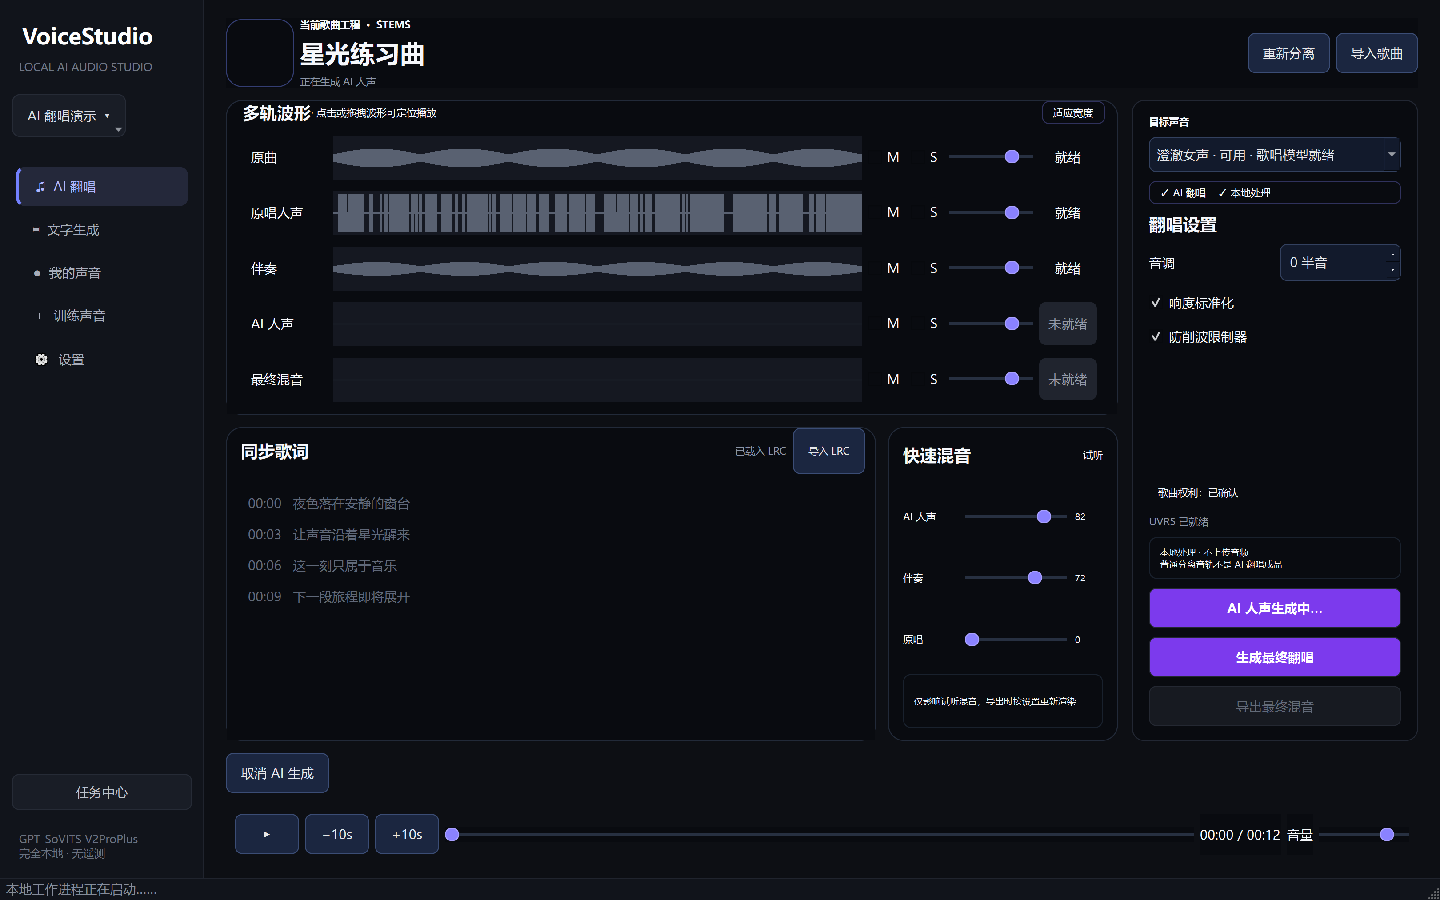
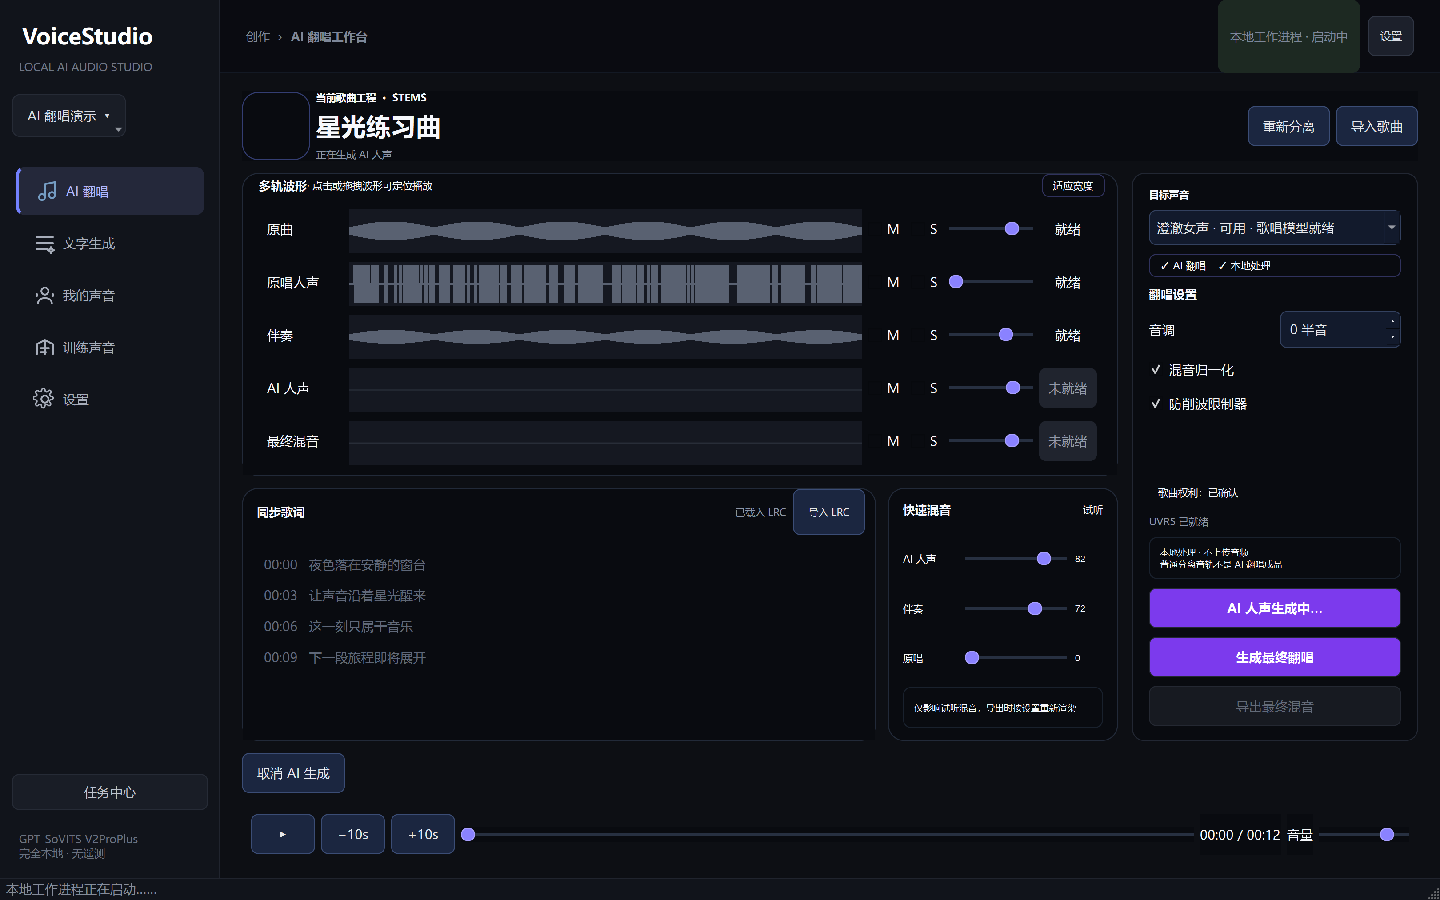
feat: add studio workspace topbar

diff --git a/src/local_voice_studio/ui/main_window.py b/src/local_voice_studio/ui/main_window.py
@@ -8,7 +8,7 @@ from pathlib import Path
 from PySide6.QtCore import QProcess, QProcessEnvironment, Qt, QUrl
 from PySide6.QtGui import QCloseEvent, QDesktopServices, QIcon, QTextCursor
 from PySide6.QtWidgets import (
-    QCheckBox, QDialog, QFileDialog, QHBoxLayout, QInputDialog, QLabel, QListWidget, QListWidgetItem, QMainWindow, QMenu, QMessageBox,
+    QCheckBox, QDialog, QFileDialog, QFrame, QHBoxLayout, QInputDialog, QLabel, QListWidget, QListWidgetItem, QMainWindow, QMenu, QMessageBox,
     QGroupBox, QPlainTextEdit, QProgressBar, QPushButton, QStackedWidget, QToolButton, QVBoxLayout, QWidget,
 )
 
@@ -101,7 +101,13 @@ class MainWindow(QMainWindow):
         central = QWidget(); root = QHBoxLayout(central); root.setContentsMargins(0, 0, 0, 0); root.setSpacing(0); self.setCentralWidget(central)
         sidebar = QWidget(); sidebar.setObjectName("sidebar"); sidebar.setFixedWidth(220); side_layout = QVBoxLayout(sidebar); side_layout.setContentsMargins(0, 0, 0, 0); brand = QLabel("VoiceStudio"); brand.setObjectName("brand"); side_layout.addWidget(brand); brand_sub = QLabel("LOCAL AI AUDIO STUDIO"); brand_sub.setObjectName("brandSub"); side_layout.addWidget(brand_sub); self.project_button = QToolButton(); self.project_button.setObjectName("projectPicker"); self.project_button.setToolButtonStyle(Qt.ToolButtonTextBesideIcon); self.project_button.setPopupMode(QToolButton.InstantPopup); self.project_menu = QMenu(self.project_button); self.project_menu.aboutToShow.connect(self._refresh_project_menu); self.project_button.setMenu(self.project_menu); side_layout.addWidget(self.project_button)
         self.navigation = QListWidget(); self.navigation.setObjectName("navigation"); self.navigation.setFrameShape(QListWidget.NoFrame); side_layout.addWidget(self.navigation); task_center = QPushButton("任务中心"); task_center.setObjectName("sidebarButton"); task_center.clicked.connect(self._open_task_center); side_layout.addWidget(task_center); version = QLabel("GPT-SoVITS V2ProPlus\n完全本地 · 无遥测"); version.setObjectName("sidebarFoot"); side_layout.addWidget(version); root.addWidget(sidebar)
-        self.stack = QStackedWidget(); root.addWidget(self.stack, 1)
+        workspace = QWidget(); workspace.setObjectName("workspace"); workspace_layout = QVBoxLayout(workspace); workspace_layout.setContentsMargins(0, 0, 0, 0); workspace_layout.setSpacing(0)
+        topbar = QFrame(); topbar.setObjectName("topbar"); topbar_layout = QHBoxLayout(topbar); topbar_layout.setContentsMargins(26, 0, 26, 0); topbar_layout.setSpacing(8)
+        topbar_layout.addWidget(QLabel("创作")); topbar_layout.addWidget(QLabel("›")); current_title = QLabel("AI 翻唱工作台"); current_title.setObjectName("topbarTitle"); topbar_layout.addWidget(current_title); topbar_layout.addStretch()
+        self.topbar_status = QLabel("本地工作进程 · 启动中"); self.topbar_status.setObjectName("topbarStatus"); topbar_layout.addWidget(self.topbar_status)
+        settings_button = QPushButton("设置"); settings_button.setObjectName("topbarButton"); settings_button.clicked.connect(lambda: self.navigation.setCurrentRow(4)); topbar_layout.addWidget(settings_button)
+        workspace_layout.addWidget(topbar)
+        self.stack = QStackedWidget(); workspace_layout.addWidget(self.stack, 1); root.addWidget(workspace, 1)
         for icon, name in (("cover.svg", "AI 翻唱"), ("generate.svg", "文字生成"), ("voices.svg", "我的声音"), ("training.svg", "训练声音"), ("settings.svg", "设置")):
             item = QListWidgetItem(self._navigation_icon(icon), name)
             self.navigation.addItem(item)
@@ -175,10 +181,10 @@ class MainWindow(QMainWindow):
         dialog = SetupDialog(self._script_path(), self.paths, self); dialog.exec(); self.client.start(); self.settings_page.check_health()
 
     def _state(self, state: str) -> None:
-        messages = {"running": "本地工作进程已启动", "stopped": "本地工作进程已停止"}; self.statusBar().showMessage(messages.get(state, state), 5000)
+        messages = {"running": "本地工作进程 · 就绪", "stopped": "本地工作进程 · 已停止"}; message = messages.get(state, state); self.statusBar().showMessage(message, 5000); self.topbar_status.setText(message)
 
     def _worker_event(self, request_id: str, event: str, payload: dict) -> None:
-        if request_id == "worker" and event == "ready": self.statusBar().showMessage("本地工作进程就绪", 5000)
+        if request_id == "worker" and event == "ready": self.statusBar().showMessage("本地工作进程就绪", 5000); self.topbar_status.setText("本地工作进程 · 就绪")
         if hasattr(self, "cover_page"):
             self.cover_page.handle_worker_event(request_id, event, payload)
 
